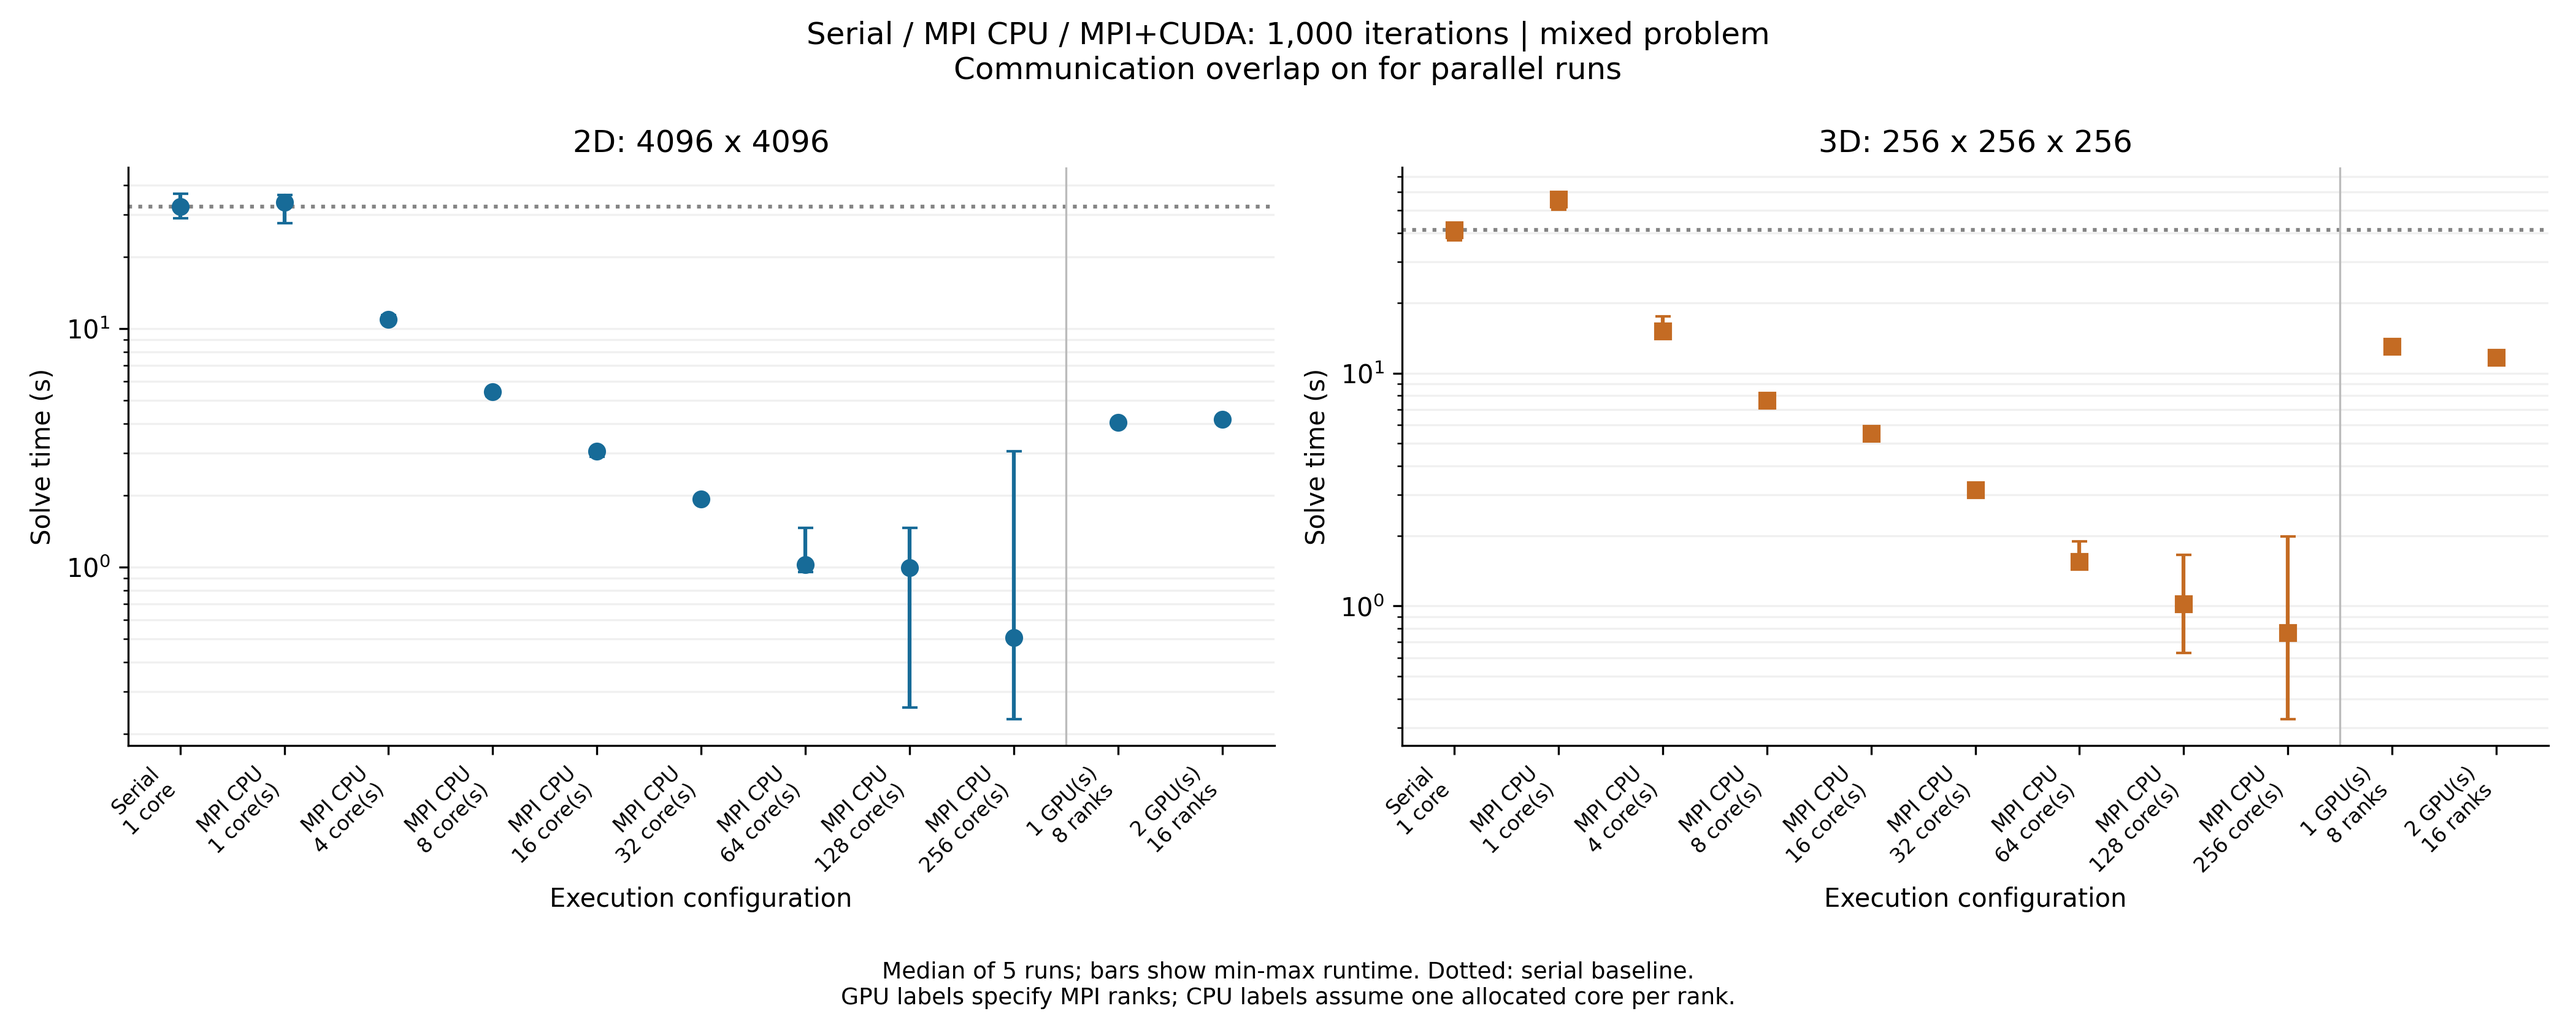
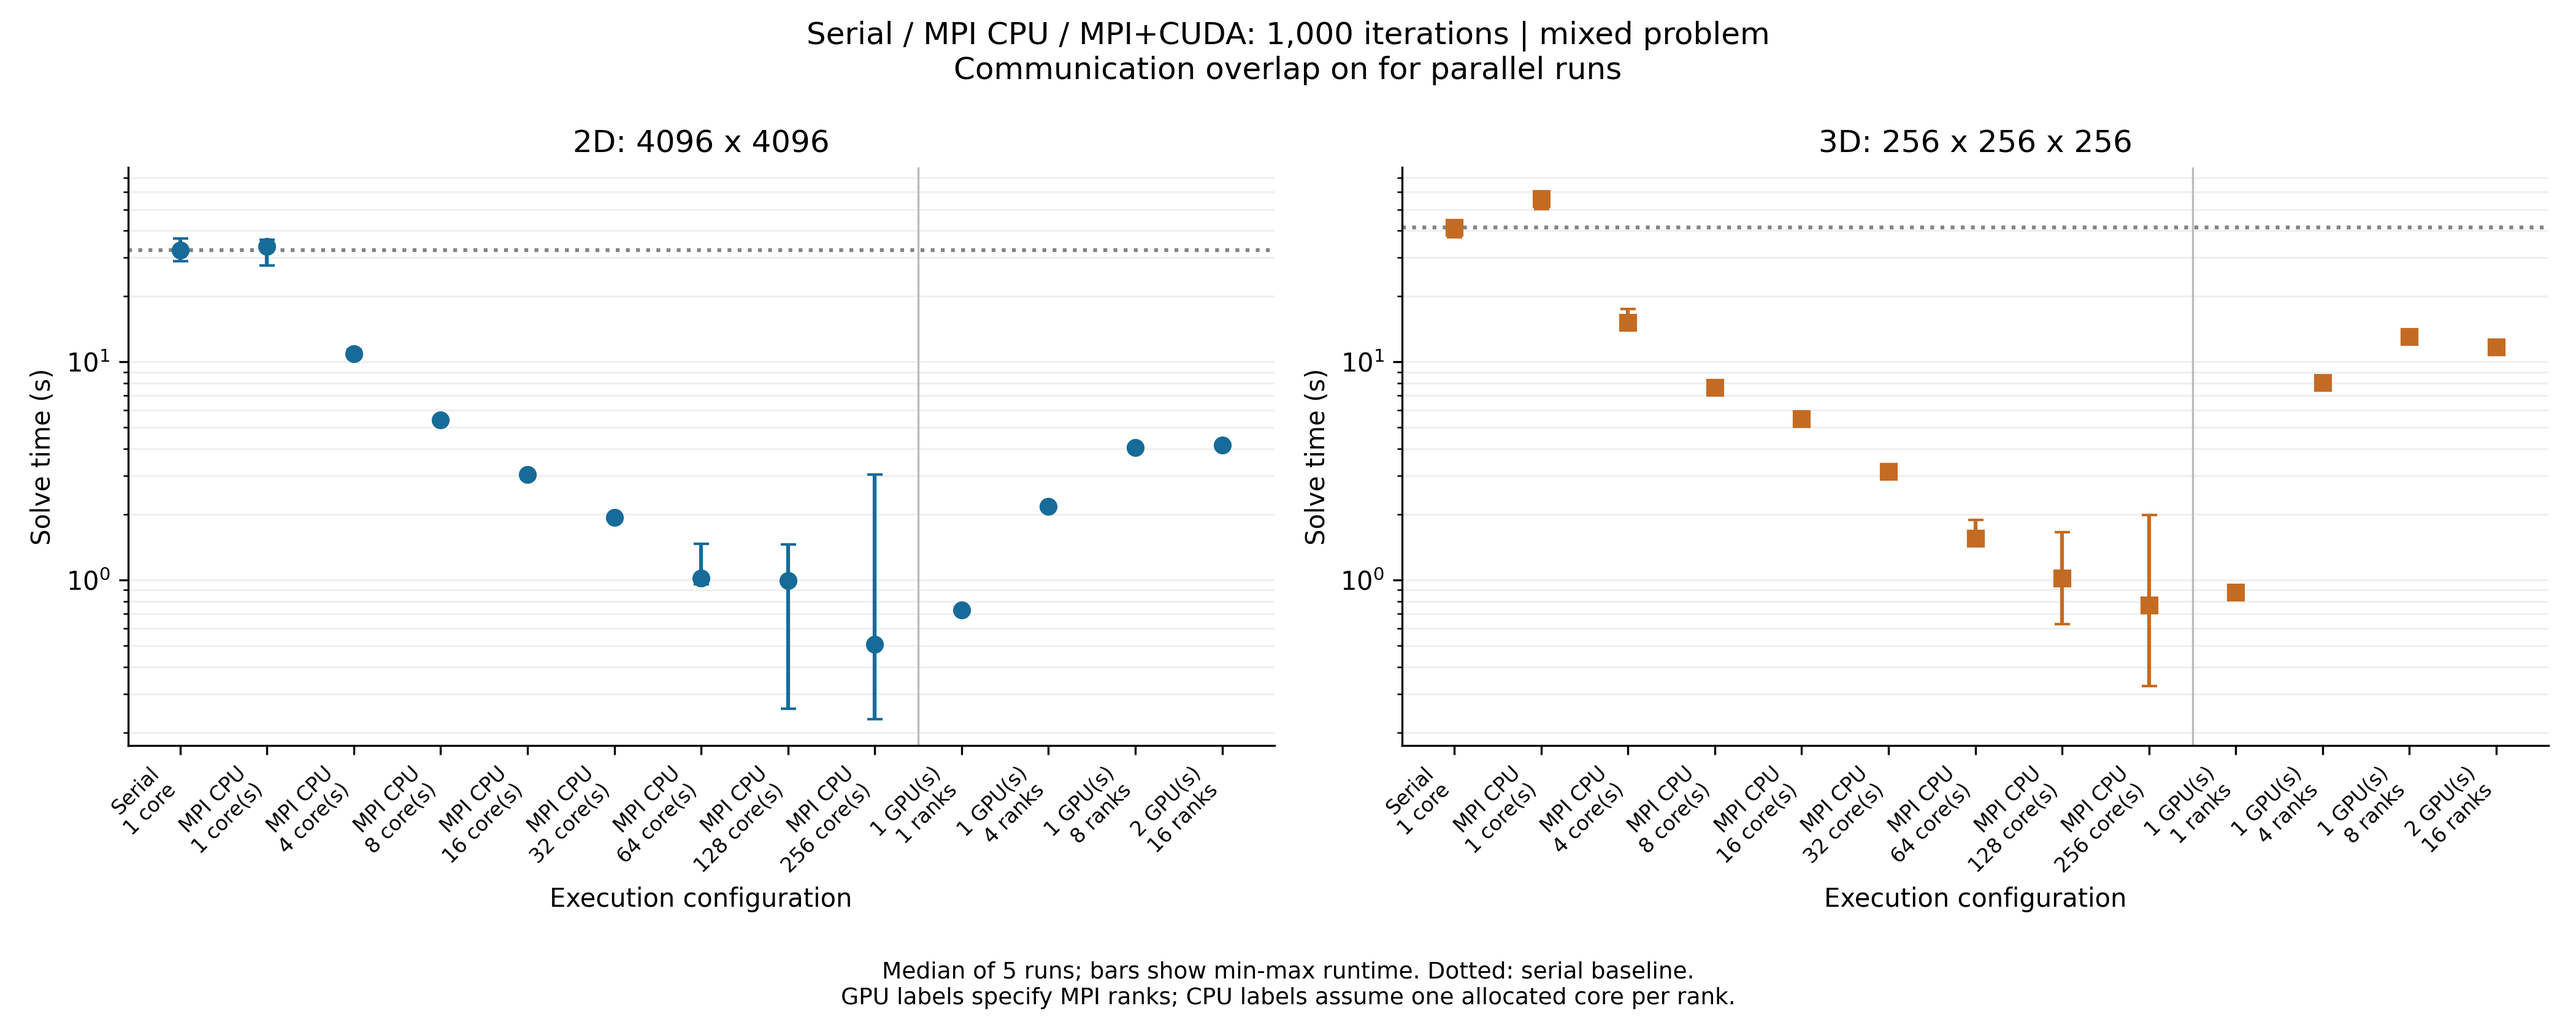
update comparison plots
added gpu sharing to plots

diff --git a/scripts/plot_comparison.py b/scripts/plot_comparison.py
@@ -1,8 +1,10 @@
 #!/usr/bin/env python3
-"""Compare matched serial, MPI CPU and MPI+CUDA strong-scaling measurements.
+"""Compare matched serial, MPI CPU, MPI+CUDA and GPU-sharing measurements.
 
 Writes runtime and serial-relative acceleration PNGs for each overlap setting,
-plus comparison_summary.csv. Only measured configurations are included.
+plus comparison_summary.csv. Only measured configurations are included. When
+the same GPU configuration appears in strong and sharing inputs, use its strong
+measurements rather than pooling the two independent sets of repeats.
 """
 import argparse
 from collections import defaultdict
@@ -24,9 +26,10 @@ def summarize(filenames, *, size2d=4096, size3d=256, iterations=1000,
         for row in records:
             mode, experiment = row['mode'], row['experiment']
             if ((mode == 'serial' and experiment != 'serial')
-                    or (mode in ('mpi-cpu', 'mpi-cuda') and experiment != 'strong')
+                    or (mode == 'mpi-cpu' and experiment != 'strong')
+                    or (mode == 'mpi-cuda' and experiment not in ('strong', 'sharing'))
                     or mode not in ('serial', 'mpi-cpu', 'mpi-cuda')):
-                raise ValueError('Supply only serial size-sweep and parallel strong-scaling CSVs')
+                raise ValueError('Supply serial, CPU/GPU strong-scaling or GPU-sharing CSVs; not weak scaling')
             dim = int(row['dimension'])
             if dim not in (2, 3):
                 raise ValueError('Expected dimension 2 or 3')
@@ -58,14 +61,14 @@ def summarize(filenames, *, size2d=4096, size3d=256, iterations=1000,
             seconds = float(row['solve_seconds'])
             if not math.isfinite(seconds) or seconds <= 0:
                 raise ValueError('Solve times must be finite and positive')
-            groups[(dim, mode, ranks, gpus, overlap)].append(row)
+            groups[(dim, mode, ranks, gpus, overlap, experiment)].append(row)
     if len(protocols) != 1:
         raise ValueError('No matching measurements, or mixed problem/iteration/warm-up settings')
     gpu_blocks = {int(r['block_size']) for rows in groups.values()
                   for r in rows if r['mode'] == 'mpi-cuda'}
     if len(gpu_blocks) != 1:
         raise ValueError('Supply GPU measurements with one consistent CUDA block size')
-    medians = {}
+    medians, group_settings = {}, {}
     for key, rows in groups.items():
         if (len(rows) != repeats
                 or {int(r['repeat']) for r in rows} != set(range(repeats))):
@@ -73,26 +76,40 @@ def summarize(filenames, *, size2d=4096, size3d=256, iterations=1000,
         settings = {(r['px'], r['py'], r['pz'], r['communication'], r['block_size']) for r in rows}
         if len(settings) != 1:
             raise ValueError('Process grid, communication or CUDA block size changed within repeats')
+        group_settings[key] = settings
         times = [float(r['solve_seconds']) for r in rows]
         medians[key] = (statistics.median(times), min(times), max(times))
+    selected = {}
+    for key in medians:
+        configuration = key[:5]
+        previous = selected.get(configuration)
+        if previous is not None:
+            if group_settings[key] != group_settings[previous]:
+                raise ValueError('Strong/sharing settings differ for the same displayed GPU configuration')
+            if key[-1] != 'strong':
+                continue
+        selected[configuration] = key
     summaries = []
     order = {'serial': 0, 'mpi-cpu': 1, 'mpi-cuda': 2}
     for overlap in overlaps:
         for dim in (2, 3):
-            baseline = medians.get((dim, 'serial', 1, 0, 0))
-            if baseline is None:
+            baseline_key = selected.get((dim, 'serial', 1, 0, 0))
+            if baseline_key is None:
                 raise ValueError(f'Missing matching {dim}D serial baseline')
-            keys = [k for k in medians if k[0] == dim and (k[1] == 'serial' or k[4] == overlap)]
+            baseline = medians[baseline_key]
+            keys = [k for k in selected if k[0] == dim and (k[1] == 'serial' or k[4] == overlap)]
             if {k[1] for k in keys} != set(order):
                 raise ValueError(f'Need serial, MPI CPU and MPI+CUDA results for {dim}D overlap={overlap}')
             for key in sorted(keys, key=lambda k: (order[k[1]], k[3], k[2])):
                 _, mode, ranks, gpus, _ = key
-                sample = groups[key][0]
-                median, low, high = medians[key]
+                source_key = selected[key]
+                sample = groups[source_key][0]
+                median, low, high = medians[source_key]
                 speedup = baseline[0]/median
                 summaries.append(dict(
                     dimension=dim, nx=int(sample['nx']), ny=int(sample['ny']), nz=int(sample['nz']),
                     mode=mode, mpi_ranks=ranks, gpus_used=gpus,
+                    source_experiment=source_key[-1],
                     overlap='not applicable' if mode == 'serial' else overlap,
                     comparison_overlap=overlap, communication=sample['communication'],
                     problem=problem, iterations=iterations, warmup=int(sample['warmup']), repeats=repeats,
@@ -118,7 +135,7 @@ def render(summaries, output):
     plt.rcParams.update({'font.size': 10, 'axes.spines.top': False, 'axes.spines.right': False})
     for overlap in sorted({r['comparison_overlap'] for r in summaries}):
         for metric in ('runtime', 'speedup'):
-            fig, axes = plt.subplots(1, 2, figsize=(14, 5.6))
+            fig, axes = plt.subplots(1, 2, figsize=(14, 5.6), sharey=True)
             for ax, dim, color, marker in zip(axes, (2, 3), ('#176b98', '#c46b23'), ('o', 's')):
                 rows = [r for r in summaries if r['dimension'] == dim and r['comparison_overlap'] == overlap]
                 x = list(range(len(rows)))
@@ -128,11 +145,9 @@ def render(summaries, output):
                               [r['max_seconds']-r['median_seconds'] for r in rows]]
                     ax.errorbar(x, y, yerr=errors, fmt=marker, color=color, capsize=3)
                     ax.axhline(rows[0]['serial_median_seconds'], color='#666666', linestyle=':', alpha=.8)
-                    ax.set_yscale('log')
                 else:
                     ax.plot(x, [r['speedup_vs_serial'] for r in rows], marker, color=color)
                     ax.axhline(1, color='#666666', linestyle=':', alpha=.8)
-                    ax.set_ylim(bottom=0)
                 ax.set_xticks(x, [label(r) for r in rows], rotation=45, ha='right', fontsize=8)
                 gpu_start = next(i for i, r in enumerate(rows) if r['mode'] == 'mpi-cuda')
                 ax.axvline(gpu_start-.5, color='#bbbbbb', linewidth=.8)
@@ -140,6 +155,13 @@ def render(summaries, output):
                 ax.set(title=f'{dim}D: {shape}', xlabel='Execution configuration',
                        ylabel='Solve time (s)' if metric == 'runtime' else 'Acceleration relative to serial')
                 ax.grid(True, axis='y', which='both', alpha=.18)
+                ax.tick_params(axis='y', labelleft=True)
+            # Set the shared scale after both panels and their error bars exist,
+            # so limits include the complete 2D and 3D measurement ranges.
+            if metric == 'runtime':
+                axes[0].set_yscale('log')
+            else:
+                axes[0].set_ylim(bottom=0)
             first = summaries[0]
             fig.suptitle(f'Serial / MPI CPU / MPI+CUDA: {first["iterations"]:,} iterations | '
                          f'{first["problem"]} problem\nCommunication overlap {"on" if overlap else "off"} for parallel runs')
